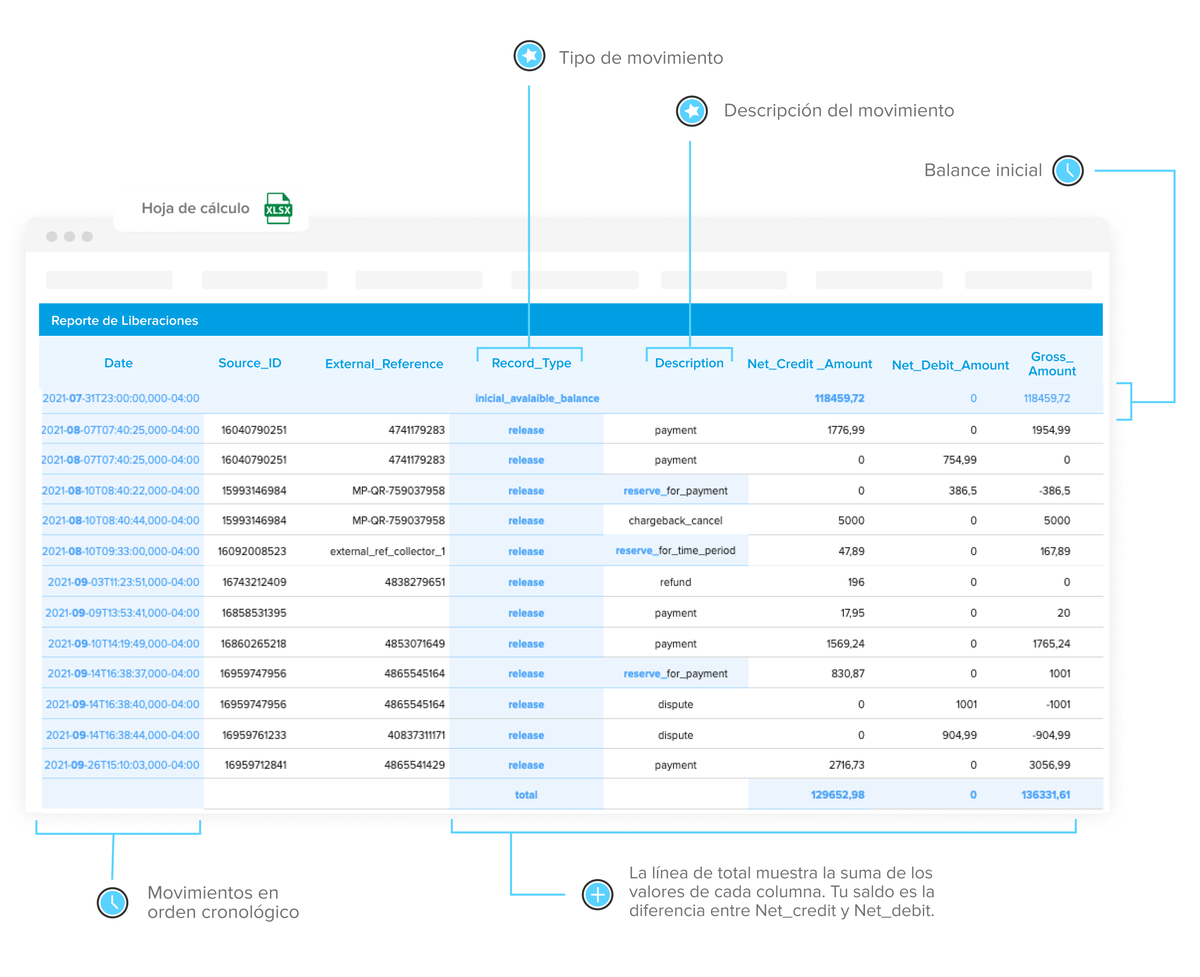
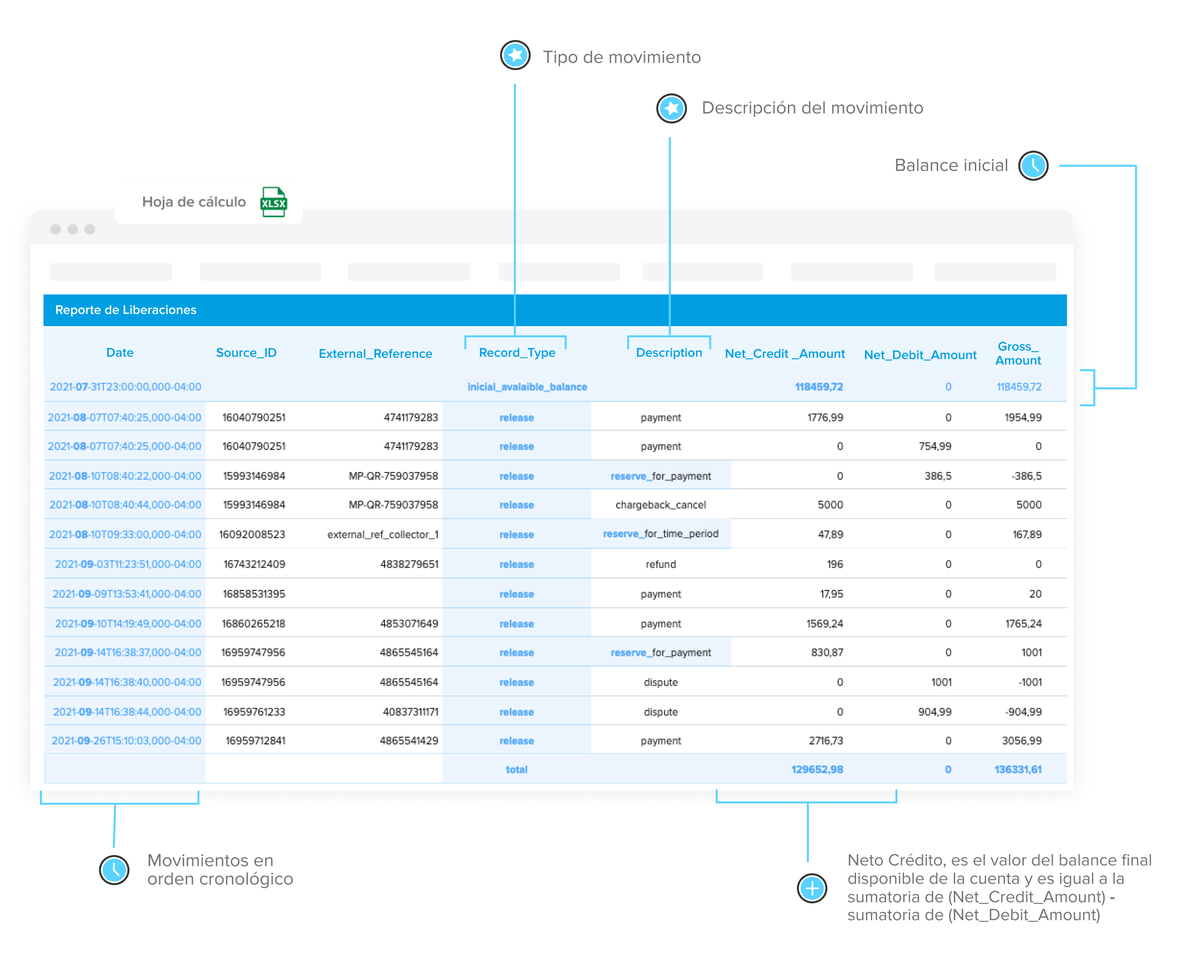
Fix Meet Validation.

diff --git a/guides/manage-account/reports/released-money/glossary.es.md b/guides/manage-account/reports/released-money/glossary.es.md
@@ -8,7 +8,7 @@ Lo sabemos, algunos términos son técnicos y puede que no estés familiarizado 
 | DATE | Fecha de liberación, bloqueo o desbloqueo, según corresponda.|
 | SOURCE_ID | ID de operación en Mercado Pago (por ejemplo, el pago de una venta).|
 | EXTERNAL_REFERENCE | <br/> ID que ayuda a identificar el origen de la operación. Por ejemplo, puede ser la venta a través del ID de la orden o el envío (si es una compra de carrito) o del ID propio provisto por el vendedor en caso de una integración externa. Tené en cuenta que es posible que este campo esté vacío para algunos casos como el pago de facturas o un envío de dinero, entre otros. <br/> <br/> |
-| RECORD_TYPE | <br/> `initial_available_balance`: Dinero disponible del período anterior.----[mla, mlc, mco, mlu, mlm, mlb]----<br/><br/> `block`: Dinero bloqueado por un reclamo o contracargo.<br/><br/> `unblock`: Dinero liberado porque se resolvió un reclamo o contracargo.------------<br/><br/> `release`: Dinero de un cobro que fue liberado.----[mla, mlc, mco, mlu, mlm, mlb]----<br/><br/> `fullblock`: Dinero bloqueado por restricción<br/><br/> `subtotal`: Suma de los montos de cada record type.------------<br/><br/> `total`: Monto neto total. <br/> <br/> `available_balance`: Saldo antes y después de realizar un retiro de dinero que explica el balance de la cuenta. <br/> <br/> |
+| RECORD_TYPE | <br/> `initial_available_balance`: Dinero disponible del período anterior.----[mla, mlc, mco, mlu, mlm, mlb]----<br/><br/> `block`: Dinero bloqueado por un reclamo o contracargo.<br/><br/> `unblock`: Dinero liberado porque se resolvió un reclamo o contracargo.------------<br/><br/> `release`: Dinero de un cobro que fue liberado.----[mla, mlc, mco, mlu, mlm, mlb]----<br/><br/> `fullblock`: Dinero bloqueado por restricción<br/><br/> `subtotal`: Suma de los montos de cada record type.------------<br/><br/> `total`: Total. Es el dinero que tienes disponible en tu cuenta. Se calcula como la diferencia entre el monto acreditado total y el monto debitado total. <br/> <br/> `available_balance`: Saldo antes y después de realizar un retiro de dinero que explica el balance de la cuenta. <br/> <br/> |
 | DESCRIPTION | <table style="border:none;background:none;font-size:16px;" ><tr style="border:none;background:none;"><td style="border:none;background:none;"> Posibles valores que puede tomar el campo:<br/><ul >----[mla, mlc, mco, mlu, mlm, mlb]----<li> Para `block o unblock`: chargeback, dispute, shipping_return, credit_payment, reserve_for_payment, reserve_for_debt_payment, reserve_for_refund, reserve_for_bpp_shipping_return, reserve_for_cbk_cross_recovery, reserve_for_embargo_invested, restriction------------ ----[mlb]----, judgment_bacen, fraud ------------</li>----[mla, mlc, mco, mlu, mlm, mlb]----<li>------------Para `release`: payment, ----[mla, mlc, mco, mlu, mlm, mlb]----withdrawal, refund------------, tax_payment_ibcf, tax_payment_ibcf_cancel, tax_payment_ibex, tax_payment_iibb, tax_payment_iibb_cancel, shipping, shipping_cancel, tax_withdholding, tax_withdholding_cancel, ----[mla, mlc, mco, mlu, mlm, mlb]----mediation,mediation_cancel,------------ chargeback, fee_release_in_advance, asset_management_gain, asset_management_loss</li>----[mla, mlc, mco, mlu, mlm, mlb]----<li>Para `fullblock`: restriction.</li><li>Para `subtotal`: block, unblock o release.</li>------------</ul></td></tr><tr style="border:none;"><td style="border:none;"> Definiciones a tener en cuenta: <br/><br/> ----[mla, mlb]---- `chargeback`: aparece cuando se inicia o resuelve un contracargo asociado al pago al que hace referencia.<br/><br/> `dispute`: aparece cuando se inicia o resuelve una mediación o reclamo sobre el pago al que hace referencia. Puede ocurrir antes o después de que el pago se haya liberado como dinero disponible e incluso retirado de la cuenta.<br/><br/>`shipping_return`: aparece cuando se bloquea o desbloquea un pago realizado por devolución express.<br/><br/>`payment`: pago que se libera en alguno de los canales en los que opera el cliente.<br/><br/>`withdrawal`: retiro que se ejecuta sobre el dinero disponible.<br/><br/>`refund`: devolución asociada al pago al que hace referencia.<br/><br/>`tax_payment_ibcf`: percepción de ingresos brutos en Capital Federal, se calcula una vez por mes de acuerdo a las operaciones transaccionadas. Para conciliar por operación, ver el detalle en los [Informes de Facturas en MyML](https://vendedores.mercadolibre[FAKER][URL][DOMAIN]/blog/notas/todo-lo-que-tenes-que-saber-sobre-tu-facturacion).<br/><br/>`tax_payment_ibcf_cancel`: cancelación del impuesto de percepción de ingresos brutos en Capital Federal.<br/><br/>`tax_payment_ibex`: percepción de ingresos brutos por sujeto excedido de régimen simplificado, se calcula una vez por mes de acuerdo a las operaciones transaccionadas. Para conciliar por operación, ver el detalle en los [Informes de Facturas en MyML](https://vendedores.mercadolibre[FAKER][URL][DOMAIN]/blog/notas/todo-lo-que-tenes-que-saber-sobre-tu-facturacion). <br/><br/> `tax_payment_iibb`: percepción de ingresos brutos en provincia de Buenos Aires, se calcula una vez por mes de acuerdo a las operaciones transaccionadas. Para conciliar por operación, ver el detalle en los [Informes de Facturas en MyML](https://vendedores.mercadolibre[FAKER][URL][DOMAIN]/blog/notas/todo-lo-que-tenes-que-saber-sobre-tu-facturacion).<br/><br/>`tax_payment_iibb_cancel`: cancelación del impuesto de percepción de ingresos brutos.<br/><br/> `tax_payment_iibb_cre_[jurisdicción]`: percepción de impuesto a los IIBB - Mercado Crédito, en donde `[jurisdicción]` se reemplaza por el nombre de la provincia donde se te genera el impuesto. <br/>Ejemplo 1: tax_payment_iibb_cre_misiones<br/>Ejemplo 2: tax_payment_iibb_cre_san_luis<br/> Para conciliar por operación, ver el detalle en los [Informes de Facturas en MyML](https://vendedores.mercadolibre[FAKER][URL][DOMAIN]/blog/notas/todo-lo-que-tenes-que-saber-sobre-tu-facturacion/).<br/><br/> `tax_iibb_[jurisdicción]`: percepción de impuesto a los IIBB, en donde `[jurisdicción]` se reemplaza por el nombre de la provincia donde se te genera el impuesto. <br/>Ejemplo 1: tax_iibb_misiones<br/>Ejemplo 2: tax_iibb_san_luis<br/> Para conciliar por operación, ver el detalle en los [Informes de Facturas en MyML](https://vendedores.mercadolibre[FAKER][URL][DOMAIN]/blog/notas/todo-lo-que-tenes-que-saber-sobre-tu-facturacion/)<br/><br/> `tax_iva`: percepción de Impuesto al Valor Agregado Régimen General.<br/><br/> `tax_iva_cre`: percepción de Impuesto al Valor Agregado Régimen General - Mercado Crédito.<br/><br/> `tax_credit_debit`: impuesto sobre Créditos y Débitos que rige en Argentina desde el 1 de agosto de 2021 para personas jurídicas. Este impuesto alcanza a todas las transacciones realizadas con terceros, depósitos y extracciones en efectivo. [Ver más detalle sobre este impuesto](https://www.mercadopago.com.ar/ayuda/20783).<br/><br/> `tax_withdholding_cancel`: la cancelación de la retención tax_withdholding.<br/><br/> `tax_withdholding`: el cobro de retenciones que no se pudieron ejecutar transaccionales al pago asociado. En Argentina son únicamente retenciones de Ingresos Brutos (las percepciones se debitan como otra operación). En Uruguay son retenciones de IVA. En Colombia son retenciones de IVA, ICA y Fuente según aplique el caso.<br/><br/> `tax_withholding_payer`:  Impuesto sobre los Créditos y Débitos en pagos.<br/><br/>`tax_withholding_collector`: impuesto sobre los Créditos y Débitos en cobros.<br/><br/>`tax_withholding_payout`: impuesto sobre los Créditos y Débitos en retiros.<br/><br/>`tax_withholding_shipping`: impuesto sobre los Créditos y Débitos en envíos.<br/><br/>`shipping`: comisión de shipping para las compras de carrito que no se incluye en cada uno de los pagos del carrito.<br/><br/> `shipping_cancel`: cancelación de la comisión de shipping para las compras de carrito que no se incluye en cada uno de los pagos del carrito.<br/><br/> `mediation`: resolución de una mediación a favor del comprador que termina restando del dinero disponible del vendedor.<br/><br/> `mediation_cancel`: cancelación de la mediación resuelta a favor del comprador.<br/><br/>`fee-release_in_advance`: comisión por adelanto.<br/><br/> `asset_management_gain`: rendimiento positivo generado por la variación del valor de cuotapartes suscritas en el fondo común de inversión.<br/><br/> `asset_management_loss`: rendimiento negativo generado por la variación del valor de cuotapartes suscritas en el fondo común de inversión.<br/><br/> `restriction`: ocurre cuando se te aplica una restricción por comportamiento fraudulento.<br/><br/> `credit_payment`: aparece cuando se cobra la cuota de un préstamo otorgado.<br/><br/> `payout`: extracción en efectivo de dinero disponible en Mercado Pago.<br/><br/> `reserve_for_embargo_invested`: embargo de tu dinero invertido. Este valor aparece cuando hay una reserva de dinero en fondos de inversión.<br/><br/> `reserve_for_bpp_shipping_return`: reserva para devoluciones.<br/><br/> `reserve_for_debt_payment`: retenido para cobro de deuda.<br/><br/> `reserve_for_refund`: retenido para devoluciones.<br/><br/> `reserve_for_cbk_cross_recovery`: retenido por contracargo de cuenta vinculada.<br/><br/> `reserve_for_payment`: consumos pendientes de confirmación. ------------ ----[mlb]---- <br/><br/>`judgment_bacen`: orden Judicial del Banco Central. El dinero puede estar congelado en la cuenta por algún litigio en curso. Puede estar asociado a bloqueos por monto.<br/><br/> `fraud`: revisión de seguridad. ------------ ----[mco, mlu]---- `chargeback`: aparece cuando se inicia o resuelve un contracargo asociado al pago al que hace referencia.<br/><br/> `dispute`: aparece cuando se inicia o resuelve una mediación o reclamo sobre el pago al que hace referencia. Puede ocurrir antes o después de que el pago se haya liberado como dinero disponible e incluso retirado de la cuenta.<br/><br/> `shipping_return`: aparece cuando se bloquea o desbloquea un pago realizado por devolución express.<br/><br/> `credit_payment`: aparece cuando se cobra la cuota de un préstamo otorgado.<br/><br/> `payment`: pago que se libera en alguno de los canales en los que opera el cliente.<br/><br/> `withdrawal`: retiro que se ejecuta sobre el dinero disponible.<br/><br/> `refund`: devolución asociada al pago al que hace referencia.<br/><br/> `shipping`: comisión de shipping para las compras de carrito que no se incluye en cada uno de los pagos del carrito.<br/><br/> `shipping_cancel`: cancelación de la comisión de shipping para las compras de carrito que no se incluye en cada uno de los pagos del carrito.<br/><br/> `mediation`: resolución de una mediación a favor del comprador que termina restando del dinero disponible del vendedor.<br/><br/> `mediation_cancel`: cancelación de la mediación resuelta a favor del comprador. <br/><br/> `fee-release_in_advance`: comisión por adelanto. <br/><br/> `tax_withdholding`: el cobro de retenciones que no se pudieron ejecutar transaccionales al pago asociado. En Argentina son únicamente retenciones de Ingresos Brutos (las percepciones se debitan como otra operación). En Uruguay son retenciones de IVA. En Colombia son retenciones de IVA, ICA y Fuente según aplique el caso. <br/><br/> `tax_withdholding_cancel`: la cancelación de la retención tax_withdholding.<br/><br/>`tax_withholding_payer`:  Impuesto sobre los Créditos y Débitos en pagos.<br/><br/>`tax_withholding_collector`: Impuesto sobre los Créditos y Débitos en cobros.<br/><br/>`tax_withholding_payout`: Impuesto sobre los Créditos y Débitos en retiros. <br/><br/> `payout`: extracción en efectivo de dinero disponible en Mercado Pago. <br/><br/> `reserve_for_embargo_invested`: embargo de tu dinero invertido. Este valor aparece cuando hay una reserva de dinero en fondos de inversión.<br/><br/> `reserve_for_bpp_shipping_return`: reserva para devoluciones.<br/><br/> `reserve_for_debt_payment`: retenido para cobro de deuda.<br/><br/> `reserve_for_refund`: retenido para devoluciones.<br/><br/> `reserve_for_cbk_cross_recovery`: retenido por contracargo de cuenta vinculada.<br/><br/> `reserve_for_payment`: consumos pendientes de confirmación. ------------ ----[mlm]---- <br/><br/> `chargeback`: aparece cuando se inicia o resuelve un contracargo asociado al pago al que hace referencia.<br/><br/> `dispute`: aparece cuando se inicia o resuelve una mediación o reclamo sobre el pago al que hace referencia. Puede ocurrir antes o después de que el pago se haya liberado como dinero disponible e incluso retirado de la cuenta.<br/><br/> `shipping_return`: aparece cuando se bloquea o desbloquea un pago realizado por devolución express.<br/><br/> `credit_payment`: aparece cuando se cobra la cuota de un préstamo otorgado. <br/><br/> `payment`: pago que se libera en alguno de los canales en los que opera el cliente. <br/><br/> `withdrawal`: retiro que se ejecuta sobre el dinero disponible.<br/><br/> `refund`: devolución asociada al pago al que hace referencia.<br/><br/> `shipping`: comisión de shipping para las compras de carrito que no se incluye en cada uno de los pagos del carrito.<br/><br/> `shipping_cancel`: cancelación de la comisión de shipping para las compras de carrito que no se incluye en cada uno de los pagos del carrito.<br/><br/> `mediation`: resolución de una mediación a favor del comprador que termina restando del dinero disponible del vendedor.<br/><br/> `mediation_cancel`: cancelación de la mediación resuelta a favor del comprador.<br/><br/> `chargeback`: contracargo ya sea a favor o en contra de una operación.<br/><br/> `fee-release_in_advance`: comisión por adelanto. <br/><br/> `payout`: extracción en efectivo de dinero disponible en Mercado Pago. <br/><br/> `reserve_for_embargo_invested`: embargo de tu dinero invertido. Este valor aparece cuando hay una reserva de dinero en fondos de inversión.------------ ----[mlc]---- `chargeback`: aparece cuando se inicia o resuelve un contracargo asociado al pago al que hace referencia.<br/><br/> `dispute`: aparece cuando se inicia o resuelve una mediación o reclamo sobre el pago al que hace referencia. Puede ocurrir antes o después de que el pago se haya liberado como dinero disponible e incluso retirado de la cuenta.<br/><br/> `shipping_return`: aparece cuando se bloquea o desbloquea un pago realizado por devolución express.<br/><br/> `credit_payment`: aparece cuando se cobra la cuota de un préstamo otorgado.<br/><br/> `payment`: pago que se libera en alguno de los canales en los que opera el cliente.<br/><br/> `withdrawal`: retiro que se ejecuta sobre el dinero disponible.<br/><br/> `refund`: devolución asociada al pago al que hace referencia.<br/><br/> `shipping`: comisión de shipping para las compras de carrito que no se incluye en cada uno de los pagos del carrito.<br/><br/>  `shipping_cancel`: cancelación de la comisión de shipping para las compras de carrito que no se incluye en cada uno de los pagos del carrito.<br/><br/> `mediation`: resolución de una mediación a favor del comprador que termina restando del dinero disponible del vendedor.<br/><br/> `mediation_cancel`: cancelación de la mediación resuelta a favor del comprador. <br/><br/> `fee-release_in_advance`: comisión por adelanto. <br/><br/> `payout`: extracción en efectivo de dinero disponible en Mercado Pago. <br/><br/> `reserve_for_embargo_invested`: embargo de tu dinero invertido. Este valor aparece cuando hay una reserva de dinero en fondos de inversión.<br/><br/> `reserve_for_bpp_shipping_return`: reserva para devoluciones.<br/><br/> `reserve_for_debt_payment`: retenido para cobro de deuda.<br/><br/> `reserve_for_refund`: retenido para devoluciones.<br/><br/> `reserve_for_cbk_cross_recovery`: retenido por contracargo de cuenta vinculada.<br/><br/> `reserve_for_payment`: consumos pendientes de confirmación.------------ ----[mpe]---- `chargeback`: aparece cuando se inicia o resuelve un contracargo asociado al pago al que hace referencia.<br/><br/> `dispute`: aparece cuando se inicia o resuelve una mediación o reclamo sobre el pago al que hace referencia. Puede ocurrir antes o después de que el pago se haya liberado como dinero disponible e incluso retirado de la cuenta.<br/><br/> `shipping_return`: aparece cuando se bloquea o desbloquea un pago realizado por devolución express.<br/><br/> `credit_payment`: aparece cuando se cobra la cuota de un préstamo otorgado.<br/><br/> `payment`: pago que se libera en alguno de los canales en los que opera el cliente.<br/><br/> `shipping`: comisión de shipping para las compras de carrito que no se incluye en cada uno de los pagos del carrito.<br/><br/>  `shipping_cancel`: cancelación de la comisión de shipping para las compras de carrito que no se incluye en cada uno de los pagos del carrito.<br/><br/> `mediation`: resolución de una mediación a favor del comprador que termina restando del dinero disponible del vendedor.<br/><br/> `mediation_cancel`: cancelación de la mediación resuelta a favor del comprador. <br/><br/> `fee-release_in_advance`: comisión por adelanto. <br/><br/> `payout`: extracción en efectivo de dinero disponible en Mercado Pago. <br/><br/> `reserve_for_embargo_invested`: embargo de tu dinero invertido. Este valor aparece cuando hay una reserva de dinero en fondos de inversión.<br/><br/> `reserve_for_bpp_shipping_return`: reserva para devoluciones.<br/><br/> `reserve_for_debt_payment`: retenido para cobro de deuda.<br/><br/> `reserve_for_refund`: retenido para devoluciones.<br/><br/> `reserve_for_cbk_cross_recovery`: retenido por contracargo de cuenta vinculada.<br/><br/> `reserve_for_payment`: consumos pendientes de confirmación.------------ ----[mlb]---- <br/><br/>`judgment_bacen`: orden judicial del Banco Central. Es posible que el dinero se congele en la cuenta debido a un litigio en curso. Puede estar asociado con cantidades bloqueadas.<br/><br/> `fraud`: revisión de seguridad.<br/><br/> `trava_de_recibibles`: bloqueo por cobrar. ------------ </td></tr></table> |
 | NET_CREDIT_AMOUNT | Acreditado al monto disponible. |
 | NET_DEBIT_AMOUNT | Debitado al monto disponible.|

diff --git a/guides/manage-account/reports/available-money/glossary.es.md b/guides/manage-account/reports/available-money/glossary.es.md
@@ -14,7 +14,7 @@ Lo sabemos, algunos términos son técnicos y puede que no estés familiarizado 
 | DATE | Fecha de liberación, bloqueo o desbloqueo, según corresponda.|
 | SOURCE_ID | ID de operación en Mercado Pago (por ejemplo, el pago de una venta).|
 | EXTERNAL_REFERENCE | <br/> ID que ayuda a identificar el origen de la operación. Por ejemplo, puede ser la venta a través del ID de la orden o el envío (si es una compra de carrito) o del ID propio provisto por el vendedor en caso de una integración externa. Tené en cuenta que es posible que este campo esté vacío para algunos casos como el pago de facturas o un envío de dinero, entre otros. <br/> <br/> |
-| RECORD_TYPE | <br/> `initial_available_balance`: Dinero disponible del período anterior.----[mla, mlc, mco, mlu, mlm, mlb]----<br/><br/> `block`: Dinero bloqueado por un reclamo o contracargo.<br/><br/> `unblock`: Dinero liberado porque se resolvió un reclamo o contracargo.------------<br/><br/> `release`: Dinero de un cobro que fue liberado.----[mla, mlc, mco, mlu, mlm, mlb]----<br/><br/> `fullblock`: Dinero bloqueado por restricción<br/><br/> `subtotal`: Suma de los montos de cada record type.------------<br/><br/> `total`: Monto neto total. <br/> <br/> |
+| RECORD_TYPE | <br/> `initial_available_balance`: Dinero disponible del período anterior.----[mla, mlc, mco, mlu, mlm, mlb]----<br/><br/> `block`: Dinero bloqueado por un reclamo o contracargo.<br/><br/> `unblock`: Dinero liberado porque se resolvió un reclamo o contracargo.------------<br/><br/> `release`: Dinero de un cobro que fue liberado.----[mla, mlc, mco, mlu, mlm, mlb]----<br/><br/> `fullblock`: Dinero bloqueado por restricción<br/><br/> `subtotal`: Suma de los montos de cada record type.------------<br/><br/> `total`: Total. Es el dinero que tienes disponible en tu cuenta. Se calcula como la diferencia entre el monto acreditado total y el monto debitado total. <br/> <br/> |
 | DESCRIPTION | <table style="border:none;background:none;font-size:16px;" ><tr style="border:none;background:none;"><td style="border:none;background:none;"> Posibles valores que puede tomar el campo:<br/><ul> ----[mla, mlc, mco, mlu, mlm, mlb]----<li> Para `block o unblock`: chargeback, dispute, shipping_return, credit_payment, reserve_for_payment, reserve_for_debt_payment, reserve_for_refund, reserve_for_bpp_shipping_return, reserve_for_cbk_cross_recovery, reserve_for_embargo_invested, restriction------------ ----[mlb]----, judgment_bacen, fraud ------------ ----[mla, mlc, mco, mlu, mlm, mlb]----</li>------------<li>Para `release`: payment, ----[mla, mlc, mco, mlu, mlm, mlb]----withdrawal, refund,------------ tax_payment_ibcf, tax_payment_ibcf_cancel, tax_payment_ibex, tax_payment_iibb, tax_payment_iibb_cre, tax_iibb, tax_iva, tax_iva_cre, tax_payment_iibb_cancel, shipping, shipping_cancel, tax_withdholding, tax_withdholding_cancel, ----[mla, mlc, mco, mlu, mlm, mlb]----mediation,mediation_cancel,------------ chargeback, fee_release_in_advance, asset_management_gain, asset_management_loss</li>----[mla, mlc, mco, mlu, mlm, mlb]----<li>Para `fullblock`: restriction.</li><li>Para `subtotal`: block, unblock o release.</li>------------</ul></td></tr><tr style="border:none;"><td style="border:none;"> Definiciones a tener en cuenta: <br/><br/> ----[mla, mlb]---- `chargeback`: aparece cuando se inicia o resuelve un contracargo asociado al pago al que hace referencia.<br/><br/> `dispute`: aparece cuando se inicia o resuelve una mediación o reclamo sobre el pago al que hace referencia. Puede ocurrir antes o después de que el pago se haya liberado como dinero disponible e incluso retirado de la cuenta.<br/><br/>`shipping_return`: aparece cuando se bloquea o desbloquea un pago realizado por devolución express.<br/><br/>`payment`: pago que se libera en alguno de los canales en los que opera el cliente.<br/><br/>`withdrawal`: retiro que se ejecuta sobre el dinero disponible.<br/><br/>`refund`: devolución asociada al pago al que hace referencia.<br/><br/>`tax_payment_ibcf`: percepción de ingresos brutos en Capital Federal, se calcula una vez por mes de acuerdo a las operaciones transaccionadas. Para conciliar por operación, ver el detalle en los [Informes de Facturas en MyML](https://vendedores.mercadolibre[FAKER][URL][DOMAIN]/blog/notas/todo-lo-que-tenes-que-saber-sobre-tu-facturacio)n/.<br/><br/>`tax_payment_ibcf_cancel`: cancelación del impuesto de percepción de ingresos brutos en Capital Federal.<br/><br/>`tax_payment_ibex`: percepción de ingresos brutos por sujeto excedido de régimen simplificado, se calcula una vez por mes de acuerdo a las operaciones transaccionadas. Para conciliar por operación, ver el detalle en los [Informes de Facturas en MyML](https://vendedores.mercadolibre[FAKER][URL][DOMAIN]/blog/notas/todo-lo-que-tenes-que-saber-sobre-tu-facturacion/). <br/><br/>  `tax_payment_iibb`: percepción de ingresos brutos en provincia de Buenos Aires, se calcula una vez por mes de acuerdo a las operaciones transaccionadas. Para conciliar por operación, ver el detalle en los [Informes de Facturas en MyML](https://vendedores.mercadolibre[FAKER][URL][DOMAIN]/blog/notas/todo-lo-que-tenes-que-saber-sobre-tu-facturacion/).<br/><br/> `tax_payment_iibb_cancel`: cancelación del impuesto de percepción de ingresos brutos.<br/><br/> `tax_payment_iibb_cre_[jurisdicción]`: percepción de impuesto a los IIBB - Mercado Crédito, en donde `[jurisdicción]` se reemplaza por el nombre de la provincia donde se te genera el impuesto. <br/>Ejemplo 1: tax_payment_iibb_cre_misiones<br/>Ejemplo 2: tax_payment_iibb_cre_san_luis<br/> Para conciliar por operación, ver el detalle en los [Informes de Facturas en MyML](https://vendedores.mercadolibre[FAKER][URL][DOMAIN]/blog/notas/todo-lo-que-tenes-que-saber-sobre-tu-facturacion/).<br/><br/> `tax_iibb_[jurisdicción]`: percepción de impuesto a los IIBB, en donde `[jurisdicción]` se reemplaza por el nombre de la provincia donde se te genera el impuesto. <br/>Ejemplo 1: tax_iibb_misiones<br/>Ejemplo 2: tax_iibb_san_luis<br/> Para conciliar por operación, ver el detalle en los [Informes de Facturas en MyML](https://vendedores.mercadolibre[FAKER][URL][DOMAIN]/blog/notas/todo-lo-que-tenes-que-saber-sobre-tu-facturacion/)<br/><br/> `tax_iva`: Percepción de Impuesto al Valor Agregado Régimen General.<br/><br/> `tax_iva_cre`: percepción de Impuesto al Valor Agregado Régimen General - Mercado Crédito.<br/><br/> `tax_credit_debit`: Impuesto sobre Créditos y Débitos que rige en Argentina desde el 1 de agosto de 2021 para personas jurídicas. Este impuesto alcanza a todas las transacciones realizadas con terceros, depósitos y extracciones en efectivo. [Ver más detalle sobre este impuesto](https://www.mercadopago.com.ar/ayuda/20783).<br/><br/> `tax_withdholding`: el cobro de retenciones que no se pudieron ejecutar transaccionales al pago asociado. En Argentina son únicamente retenciones de Ingresos Brutos (las percepciones se debitan como otra operación). En Uruguay son retenciones de IVA. En Colombia son retenciones de IVA, ICA y Fuente según aplique el caso.<br/><br/> `tax_withdholding_cancel`: la cancelación de la retención tax_withdholding.<br/><br/>`tax_withholding_payer`:  impuesto sobre los Créditos y Débitos en pagos.<br/><br/>`tax_withholding_collector`: impuesto sobre los Créditos y Débitos en cobros.<br/><br/>`tax_withholding_payout`: impuesto sobre los Créditos y Débitos en retiros.<br/><br>`tax_withholding_shipping`: impuesto sobre los Créditos y Débitos en envíos.<br/><br/>`shipping`: comisión de shipping para las compras de carrito que no se incluye en cada uno de los pagos del carrito.<br/><br/> `shipping_cancel`: cancelación de la comisión de shipping para las compras de carrito que no se incluye en cada uno de los pagos del carrito.<br/><br/> `mediation`: resolución de una mediación a favor del comprador que termina restando del dinero disponible del vendedor.<br/><br/> `mediation_cancel`: cancelación de la mediación resuelta a favor del comprador.<br/><br/>`fee-release_in_advance`: comisión por adelanto.<br/><br/>`fee-release_in_advance_pnf`: comisión por adelanto.<br/><br/> `asset_management_gain`: rendimiento positivo generado por la variación del valor de cuotapartes suscritas en el fondo común de inversión.<br/><br/> `asset_management_loss`: rendimiento negativo generado por la variación del valor de cuotapartes suscritas en el fondo común de inversión.<br/><br/> `restriction`: ocurre cuando se te aplica una restricción por comportamiento fraudulento.<br/><br/> `credit_payment`: aparece cuando se cobra la cuota de un préstamo otorgado.<br/><br/> `payout`: extracción en efectivo de dinero disponible en Mercado Pago.<br/><br/> `reserve_for_embargo_invested`: embargo de tu dinero invertido. Este valor aparece cuando hay una reserva de dinero en fondos de inversión.<br/><br/> `reserve_for_bpp_shipping_return`: reserva para devoluciones.<br/><br/> `reserve_for_debt_payment`: retenido para cobro de deuda.<br/><br/> `reserve_for_refund`: retenido para devoluciones.<br/><br/> `reserve_for_cbk_cross_recovery`: retenido por contracargo de cuenta vinculada.<br/><br/> `reserve_for_payment`: consumos pendientes de confirmación.------------ ----[mlb]---- <br/><br/>`judgment_bacen`: orden Judicial del Banco Central. El dinero puede estar congelado en la cuenta por algún litigio en curso. Puede estar asociado a bloqueos por monto.<br/><br/> `fraud`: revisión de seguridad. ------------ ----[mco, mlu]---- `chargeback`: aparece cuando se inicia o resuelve un contracargo asociado al pago al que hace referencia.<br/><br/> `dispute`: aparece cuando se inicia o resuelve una mediación o reclamo sobre el pago al que hace referencia. Puede ocurrir antes o después de que el pago se haya liberado como dinero disponible e incluso retirado de la cuenta.<br/><br/> `shipping_return`: aparece cuando se bloquea o desbloquea un pago realizado por devolución express.<br/><br/> `credit_payment`: aparece cuando se cobra la cuota de un préstamo otorgado.<br/><br/> `payment`: pago que se libera en alguno de los canales en los que opera el cliente.<br/><br/> `withdrawal`: retiro que se ejecuta sobre el dinero disponible.<br/><br/> `refund`: devolución asociada al pago al que hace referencia.<br/><br/> `shipping`: comisión de shipping para las compras de carrito que no se incluye en cada uno de los pagos del carrito.<br/><br/> `shipping_cancel`: cancelación de la comisión de shipping para las compras de carrito que no se incluye en cada uno de los pagos del carrito.<br/><br/> `mediation`: resolución de una mediación a favor del comprador que termina restando del dinero disponible del vendedor.<br/><br/> `mediation_cancel`: cancelación de la mediación resuelta a favor del comprador. <br/><br/> `fee-release_in_advance`: comisión por adelanto. <br/><br/> `tax_withdholding`: el cobro de retenciones que no se pudieron ejecutar transaccionales al pago asociado. En Argentina son únicamente retenciones de Ingresos Brutos (las percepciones se debitan como otra operación). En Uruguay son retenciones de IVA. En Colombia son retenciones de IVA, ICA y Fuente según aplique el caso. <br/><br/> `tax_withdholding_cancel`: la cancelación de la retención tax_withdholding. <br/><br/> `payout`: extracción en efectivo de dinero disponible en Mercado Pago. <br/><br/> `reserve_for_embargo_invested`: embargo de tu dinero invertido. Este valor aparece cuando hay una reserva de dinero en fondos de inversión.<br/><br/> `reserve_for_bpp_shipping_return`: reserva para devoluciones.<br/><br/> `reserve_for_debt_payment`: retenido para cobro de deuda.<br/><br/> `reserve_for_refund`: retenido para devoluciones.<br/><br/> `reserve_for_cbk_cross_recovery`: retenido por contracargo de cuenta vinculada.<br/><br/> `reserve_for_payment`: consumos pendientes de confirmación.------------ ----[mlm]---- <br/><br/> `chargeback`: aparece cuando se inicia o resuelve un contracargo asociado al pago al que hace referencia.<br/><br/> `dispute`: aparece cuando se inicia o resuelve una mediación o reclamo sobre el pago al que hace referencia. Puede ocurrir antes o después de que el pago se haya liberado como dinero disponible e incluso retirado de la cuenta.<br/><br/> `shipping_return`: aparece cuando se bloquea o desbloquea un pago realizado por devolución express.<br/><br/> `credit_payment`: aparece cuando se cobra la cuota de un préstamo otorgado. <br/><br/> `payment`: pago que se libera en alguno de los canales en los que opera el cliente. <br/><br/> `withdrawal`: retiro que se ejecuta sobre el dinero disponible.<br/><br/> `refund`: devolución asociada al pago al que hace referencia.<br/><br/> `shipping`: comisión de shipping para las compras de carrito que no se incluye en cada uno de los pagos del carrito.<br/><br/> `shipping_cancel`: cancelación de la comisión de shipping para las compras de carrito que no se incluye en cada uno de los pagos del carrito.<br/><br/> `mediation`: resolución de una mediación a favor del comprador que termina restando del dinero disponible del vendedor.<br/><br/> `mediation_cancel`: cancelación de la mediación resuelta a favor del comprador.<br/><br/> `chargeback`: contracargo ya sea a favor o en contra de una operación.<br/><br/> `fee-release_in_advance`: comisión por adelanto. <br/><br/> `payout`: extracción en efectivo de dinero disponible en Mercado Pago. <br/><br/> `reserve_for_embargo_invested`: embargo de tu dinero invertido. Este valor aparece cuando hay una reserva de dinero en fondos de inversión.------------ ----[mlc]---- `chargeback`: aparece cuando se inicia o resuelve un contracargo asociado al pago al que hace referencia.<br/><br/> `dispute`: aparece cuando se inicia o resuelve una mediación o reclamo sobre el pago al que hace referencia. Puede ocurrir antes o después de que el pago se haya liberado como dinero disponible e incluso retirado de la cuenta.<br/><br/> `shipping_return`: aparece cuando se bloquea o desbloquea un pago realizado por devolución express.<br/><br/> `credit_payment`: aparece cuando se cobra la cuota de un préstamo otorgado.<br/><br/> `payment`: pago que se libera en alguno de los canales en los que opera el cliente.<br/><br/> `withdrawal`: retiro que se ejecuta sobre el dinero disponible.<br/><br/> `refund`: devolución asociada al pago al que hace referencia.<br/><br/>  `shipping`: comisión de shipping para las compras de carrito que no se incluye en cada uno de los pagos del carrito.<br/><br/>  `shipping_cancel`: cancelación de la comisión de shipping para las compras de carrito que no se incluye en cada uno de los pagos del carrito.<br/><br/> `mediation`: resolución de una mediación a favor del comprador que termina restando del dinero disponible del vendedor.<br/><br/> `mediation_cancel`: cancelación de la mediación resuelta a favor del comprador. <br/><br/> `fee-release_in_advance`: comisión por adelanto. <br/><br/> `payout`: extracción en efectivo de dinero disponible en Mercado Pago. <br/><br/> `reserve_for_embargo_invested`: embargo de tu dinero invertido. Este valor aparece cuando hay una reserva de dinero en fondos de inversión.<br/><br/> `reserve_for_bpp_shipping_return`: reserva para devoluciones.<br/><br/> `reserve_for_debt_payment`: retenido para cobro de deuda.<br/><br/> `reserve_for_refund`: retenido para devoluciones.<br/><br/> `reserve_for_cbk_cross_recovery`: retenido por contracargo de cuenta vinculada.<br/><br/> `reserve_for_payment`: consumos pendientes de confirmación.------------ ----[mpe]---- `chargeback`: aparece cuando se inicia o resuelve un contracargo asociado al pago al que hace referencia.<br/><br/> `dispute`: aparece cuando se inicia o resuelve una mediación o reclamo sobre el pago al que hace referencia. Puede ocurrir antes o después de que el pago se haya liberado como dinero disponible e incluso retirado de la cuenta.<br/><br/> `shipping_return`: aparece cuando se bloquea o desbloquea un pago realizado por devolución express.<br/><br/> `credit_payment`: aparece cuando se cobra la cuota de un préstamo otorgado.<br/><br/> `payment`: pago que se libera en alguno de los canales en los que opera el cliente.<br/><br/> `refund`: devolución asociada al pago al que hace referencia.<br/><br/>  `shipping`: comisión de shipping para las compras de carrito que no se incluye en cada uno de los pagos del carrito.<br/><br/>  `shipping_cancel`: cancelación de la comisión de shipping para las compras de carrito que no se incluye en cada uno de los pagos del carrito.<br/><br/>  `payout`: extracción en efectivo de dinero disponible en Mercado Pago. <br/><br/> `reserve_for_embargo_invested`: embargo de tu dinero invertido. Este valor aparece cuando hay una reserva de dinero en fondos de inversión.<br/><br/> `reserve_for_bpp_shipping_return`: reserva para devoluciones.<br/><br/> `reserve_for_debt_payment`: retenido para cobro de deuda.<br/><br/> `reserve_for_refund`: retenido para devoluciones.<br/><br/> `reserve_for_cbk_cross_recovery`: retenido por contracargo de cuenta vinculada.<br/><br/> `reserve_for_payment`: consumos pendientes de confirmación.------------ ----[mlb]---- <br/><br/>`judgment_bacen`: orden judicial del Banco Central. Es posible que el dinero se congele en la cuenta debido a un litigio en curso. Puede estar asociado con cantidades bloqueadas.<br/><br/> `fraud`: revisión de seguridad.<br/><br/> `trava_de_recibibles`: bloqueo por cobrar.------------ </td></tr></table> |
 | NET_CREDIT_AMOUNT | Acreditado al monto disponible. |
 | NET_DEBIT_AMOUNT | Debitado al monto disponible.|

diff --git a/guides/manage-account/reports/released-money/how-to-use.es.md b/guides/manage-account/reports/released-money/how-to-use.es.md
@@ -8,22 +8,14 @@ Para consultar el reporte te recomendamos descargarlo en formato .csv y abrirlo 
 
 El reporte está compuesto por:
 
-----[mla, mlc, mco, mlu, mlm, mlb]----
 | Composición del reporte | Descripción |
 | --- | --- |
 | Initial Available Balance |<br/> Balance inicial.<br/><br/>|
-| Release |<br/> El detalle de las------------ ----[mla]---- liquidaciones ------------ ----[mlm, mlb, mlc, mco, mlu, mpe]---- liberaciones ------------ ----[mla, mlc, mco, mlu, mlm, mlb]----de dinero que incluye el balance inicial.<br/><br/> |
+| Release |<br/> El detalle de las ----[mla]---- liquidaciones ------------ ----[mlm, mlb, mlc, mco, mlu, mpe]---- liberaciones ------------ de dinero que incluye el balance inicial.<br/><br/> |
 | Block | <br/>Los bloqueos de dinero por disputas.<br/><br/> |
 | Unblock |<br/> Los desbloqueos por la resolución de las disputas.<br/><br/>|
 | Subtotal | <br/>Es la suma de las operaciones que componen a cada sección.<br/><br/>|
-| Total| <br/> Es el resultado final compuesto por la suma de todos los subtotales. <br/><br/>Es decir:<br/> subtotal `Release` + subtotal `Block` + subtotal `Unblock` = resultado total<br/><br/> |------------
-
-----[mpe]----
-| Composición del reporte | Descripción |
-| --- | --- |
-| Initial Available Balance |<br/> Balance inicial. Indica el dinero que tenías disponible en la fecha inicial del periodo que elegiste para conciliar. <br/><br/>|
-| Release |<br/> El detalle de las transacciones que impactan el balance total.<br/><br/> |
-| Total| <br/> Total. Es el dinero que tienes disponible en tu cuenta. Se calcula como la diferencia entre el monto acreditado total y el monto debitado total.<br/><br/> |------------
+| Total| <br/> Es el resultado final compuesto por la suma de todos los subtotales. <br/><br/>Es decir:<br/> subtotal `Release` + subtotal `Block` + subtotal `Unblock` = resultado total<br/><br/> |
 
 Además el reporte refleja los conceptos contables del *debe* (dinero que tienes que pagar) y *haber* (dinero que tienes por cobrar) escribiendo el reporte en dos columnas, una por cada concepto:  
 
@@ -47,14 +39,6 @@ Si esto pasa, el reporte sigue siendo válido. El dinero vuelve a tu cuenta y la
 ----[mpe]----
 > Ten a mano el [Glosario del reporte](https://www.mercadopago[FAKER][URL][DOMAIN]/developers/es/guides/manage-account/reports/released-money/glossary) de Liberaciones para revisarlo cuando lo necesites o quieras consultar algún término técnico.
 ------------
-----[mpe]----
-### ¿Cómo leer los reportes que generes a partir de enero de 2022?
-
-Los reportes que generes a partir de enero de 2022 tienen las siguientes características:
-1. Los movimientos se presentan en el orden en que ocurrieron, con lo cual podrás identificarlos con mayor facilidad y controlar mejor tus ventas. 
-2. Cuando se presenta alguna reclamación o contracargo por algún problema con el servicio o producto que vendiste, tu dinero es retenido hasta que la mediación se resuelva. Esta información se visualiza en tu reporte y la reconoces porque su descripción lleva el prefijo reserve_.
-3. Los movimientos relacionados con los retiros sobre tu dinero disponible se muestran como payout y todas las mediaciones que surgen cuando se inicia o resuelve un reclamo se presentan como dispute. Para conocer la descripción de otros movimientos y términos, puedes usar [este glosario](https://www.mercadopago[FAKER][URL][DOMAIN]/developers/es/guides/manage-account/reports/released-money/glossary). 
-------------
 
 ## Ejemplo de un reporte
 
@@ -63,14 +47,37 @@ Observa cómo está compuesto el reporte de ----[mla]---- Liquidaciones --------
 ----[mla]----
 ![Reporte de liquidaciones](/images/manage-account/reports/example-release-es.jpg)
 ------------
-----[mlm, mlb, mlc, mco, mlu]----
+----[mlm, mlb, mlc, mco, mlu, mpe]----
 ![Reporte de liberaciones](/images/manage-account/reports/example-release-es.jpg)
 ------------
-----[mpe]----
-![Reporte de liberaciones](/images/manage-account/reports/example-n-ledger-es.jpg)
-------------
+
 
 La versión por defecto mostrará una vista extendida de las columnas. El informe final tendrá la mayor cantidad de detalle posible.
+
+----[mpe]----
+## ¿Cómo leer los reportes que generes a partir de enero de 2022?
+
+Los reportes que generes a partir de enero de 2022 tienen las siguientes características:
+1. Los movimientos se presentan en el orden en que ocurrieron, con lo cual podrás identificarlos con mayor facilidad y controlar mejor tus ventas. 
+2. Cuando se presenta alguna reclamación o contracargo por algún problema con el servicio o producto que vendiste, tu dinero es retenido hasta que la mediación se resuelva. Esta información se visualiza en tu reporte y la reconoces porque su descripción lleva el prefijo reserve_.
+3. Los movimientos relacionados con los retiros sobre tu dinero disponible se muestran como payout y todas las mediaciones que surgen cuando se inicia o resuelve un reclamo se presentan como dispute. Para conocer la descripción de otros movimientos y términos, puedes usar [este glosario](https://www.mercadopago[FAKER][URL][DOMAIN]/developers/es/guides/manage-account/reports/released-money/glossary). 
+
+## ¿Qué contiene el reporte?
+
+El reporte presenta una estructura más simple para facilitar su comprensión:
+
+| Composición del reporte | Descripción |
+| --- | --- |
+| Initial Available Balance |<br/> Balance inicial. Indica el dinero que tenías disponible en la fecha inicial del periodo que elegiste para conciliar. <br/><br/>|
+| Release |<br/> El detalle de las transacciones que impactan el balance total.<br/><br/> |
+| Total| <br/> Es la diferencia entre el monto neto acreditado total y el monto neto debitado total. <br/><br/> |
+
+## Ejemplo de un reporte
+Observa cómo está compuesto el reporte de Dinero retirado en este ejemplo para identificar las secciones y leer tus propios reportes:
+
+![Reporte de Dinero retirado Ejemplos Mercado Pago](/images/manage-account/reports/example-n-ledger-es.jpg)
+
+------------
 <hr/>
 
 ### Próximos pasos

diff --git a/guides/manage-account/reports/available-money/how-to-use.es.md b/guides/manage-account/reports/available-money/how-to-use.es.md
@@ -17,7 +17,7 @@ Para consultar el reporte te recomendamos descargarlo en formato .csv para abrir
 
 El reporte está compuesto por:
 
-----[mla, mlc, mco, mlu, mlm, mlb]----
+
 | Composición del reporte | Descripción |
 | --- | --- |
 | Initial Available Balance |<br/> Balance inicial.<br/><br/>|
@@ -26,14 +26,6 @@ El reporte está compuesto por:
 | Unblock |<br/> Los desbloqueos por la resolución de las disputas.<br/><br/>|
 | Subtotal | <br/>Es la suma de las operaciones que componen a cada sección.<br/><br/>|
 | Total| <br/> Es el resultado final compuesto por la suma de todos los subtotales. <br/><br/>Es decir:<br/> subtotal `Release` + subtotal `Block` + subtotal `Unblock` = resultado total<br/><br/> |
-------------
-
-----[mpe]----
-| Composición del reporte | Descripción |
-| --- | --- |
-| Initial Available Balance |<br/> Balance inicial. Indica el dinero que tenías disponible en la fecha inicial del periodo que elegiste para conciliar. <br/><br/>|
-| Release |<br/> El detalle de las transacciones que impactan el balance total.<br/><br/> |
-| Total| <br/> Total. Es el dinero que tienes disponible en tu cuenta. Se calcula como la diferencia entre el monto acreditado total y el monto debitado total.<br/><br/> |------------
 
 Ademas el reporte refleja los conceptos contables del *debe* (dinero que tienes que pagar) y *haber* (dinero que tienes por cobrar) escribiendo el reporte en dos columnas, una por cada concepto:  
 
@@ -62,12 +54,7 @@ Si esto pasa, el reporte sigue siendo válido. El dinero vuelve a tu cuenta y la
 
 Observa cómo está compuesto el reporte de Dinero retirado en este ejemplo para identificar las secciones y leer tus propios reportes:
 
-----[mla, mlc, mco, mlu, mlm, mlb]----
 ![Reporte de Dinero retirado Ejemplos Mercado Pago](/images/manage-account/reports/examples-es.png)
-------------
-----[mpe]----
-![Reporte de Dinero retirado Ejemplos Mercado Pago](/images/manage-account/reports/example-n-ledger-es.jpg)
-------------
 
 La versión por defecto mostrará una vista extendida de las columnas. El informe final tendrá la mayor cantidad de detalle posible.
 
@@ -86,12 +73,28 @@ La versión por defecto mostrará una vista extendida de las columnas. El inform
 Cuando retires todo tu dinero disponible, el total del reporte va a coincidir con ese monto. En cambio, cuando hagas un retiro parcial, que no incluya la totalidad de tu dinero listo para usar, el total de dinero retirado y el total del reporte no van a coincidir. Por ejemplo, imagina que tienes $ 3.000 disponibles para retirar a una cuenta bancaria pero solo retiras $ 2.000. El retiro es parcial pero el valor total del reporte seguirá mostrándote el monto del balance inicial que había al momento del retiro, es decir, los $ 3.000 que tenías disponibles. En cambio, si retiras los $ 3.000, el valor total del reporte va a coincidir con el valor de ese retiro.
 ------------
 ----[mpe]----
-### ¿Cómo leer los reportes que generes a partir de enero de 2022?
+## ¿Cómo leer los reportes que generes a partir de enero de 2022?
 
 Los reportes que generes a partir de enero de 2022 tienen las siguientes características:
 1. Los movimientos se presentan en el orden en que ocurrieron, con lo cual podrás identificarlos con mayor facilidad y controlar mejor tus ventas. 
 2. Cuando se presenta alguna reclamación o contracargo por algún problema con el servicio o producto que vendiste, tu dinero es retenido hasta que la mediación se resuelva. Esta información se visualiza en tu reporte y la reconoces porque su descripción lleva el prefijo reserve_.
 3. Los movimientos relacionados con los retiros sobre tu dinero disponible se muestran como payout y todas las mediaciones que surgen cuando se inicia o resuelve un reclamo se presentan como dispute. Para conocer la descripción de otros movimientos y términos, puedes usar [este glosario](https://www.mercadopago[FAKER][URL][DOMAIN]/developers/es/guides/manage-account/reports/released-money/glossary). 
+
+## ¿Qué contiene el reporte?
+
+El reporte presenta una estructura más simple para facilitar su comprensión:
+
+| Composición del reporte | Descripción |
+| --- | --- |
+| Initial Available Balance |<br/> Balance inicial. Indica el dinero que tenías disponible en la fecha inicial del periodo que elegiste para conciliar. <br/><br/>|
+| Release |<br/> El detalle de las transacciones que impactan el balance total.<br/><br/> |
+| Total| <br/> Es la diferencia entre el monto neto acreditado total y el monto neto debitado total. <br/><br/> |
+
+## Ejemplo de un reporte
+Observa cómo está compuesto el reporte de Dinero retirado en este ejemplo para identificar las secciones y leer tus propios reportes:
+
+![Reporte de Dinero retirado Ejemplos Mercado Pago](/images/manage-account/reports/example-n-ledger-es.jpg)
+
 ------------
 <hr/>
 
